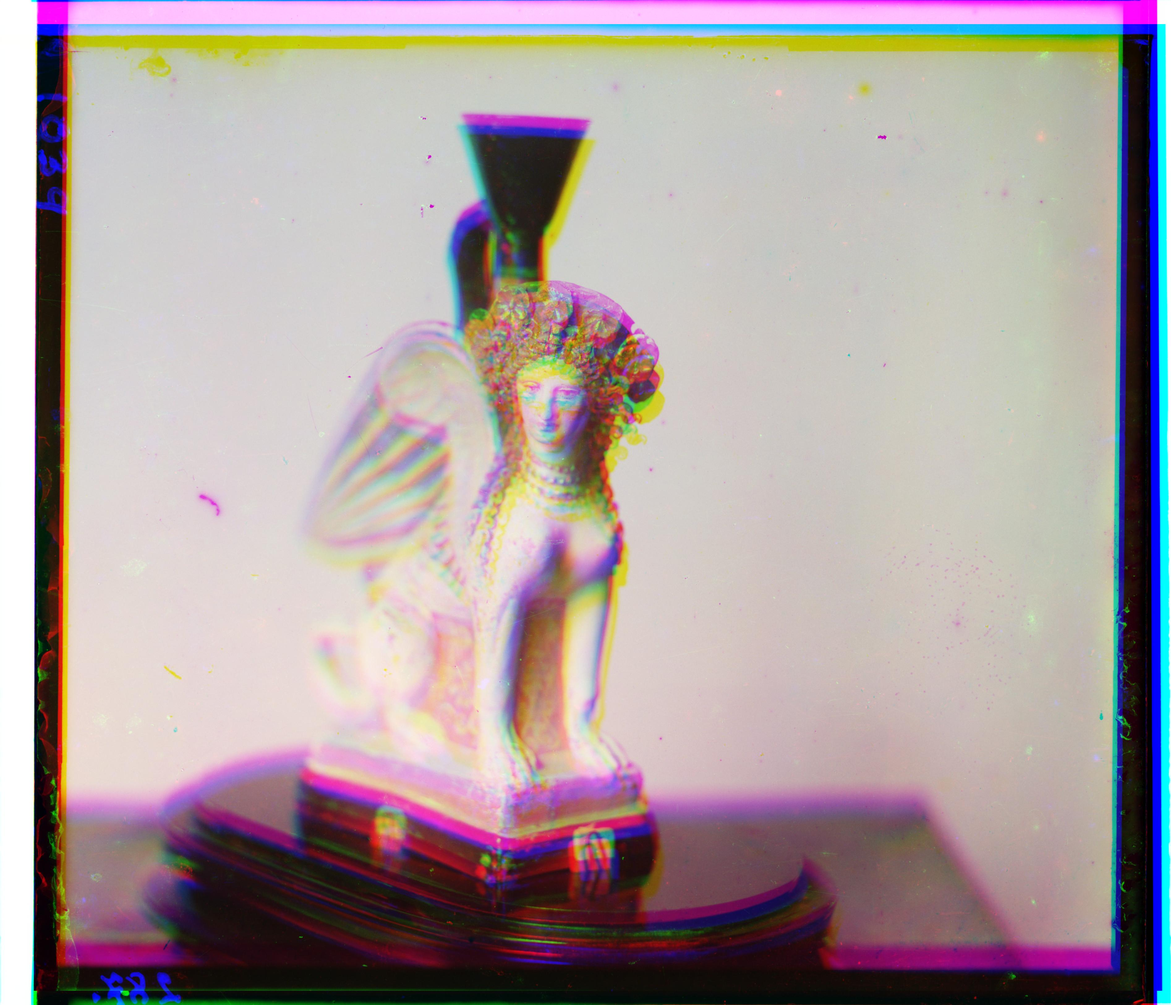
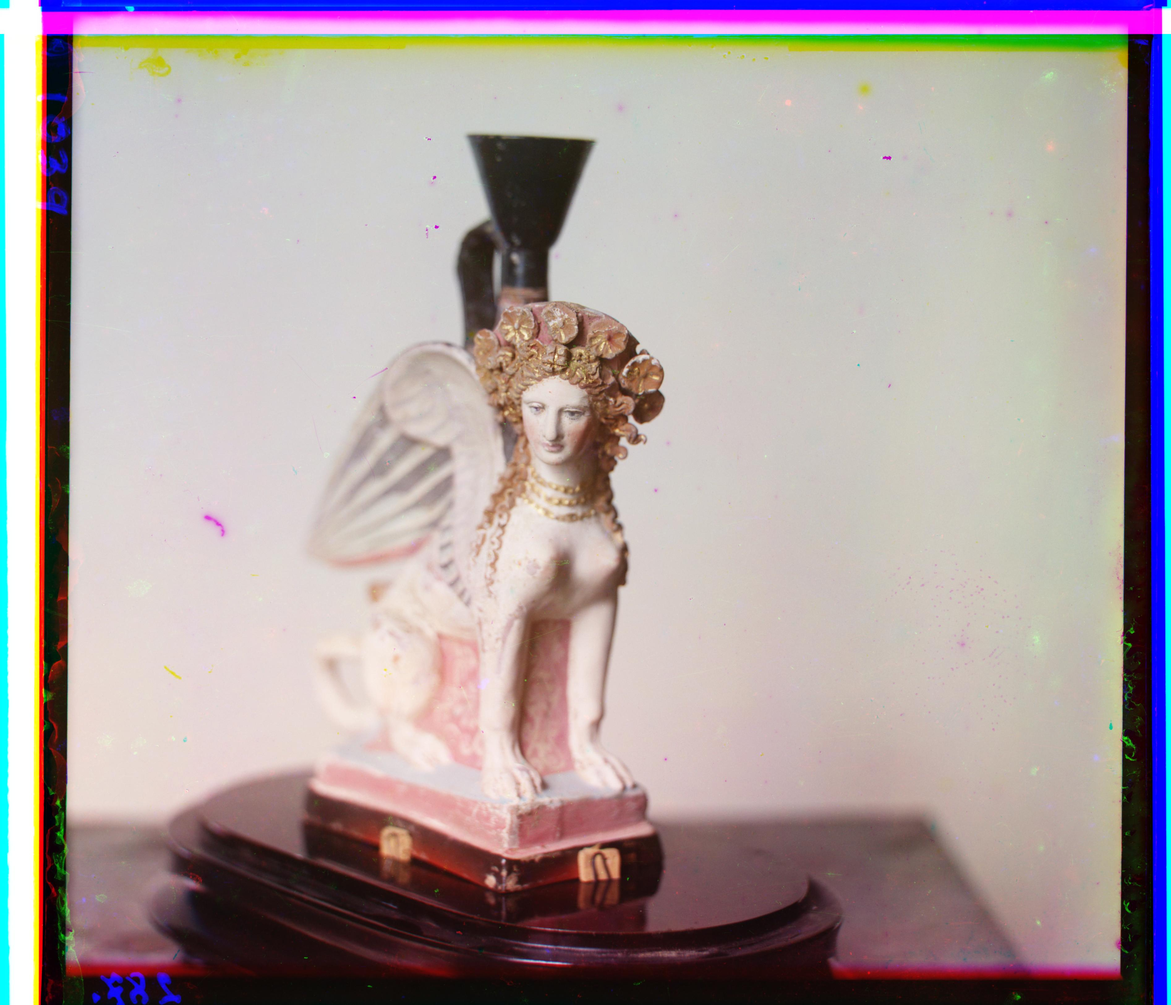
final proj 1

Changed region(s): [[0.0, 0.0, 1.0, 1.0], [0.2492, 0.6215, 0.2804, 0.6526], [0.1558, 0.4972, 0.1869, 0.5283]]

diff --git a/1/index.html b/1/index.html
@@ -25,6 +25,9 @@
               
               <p>
                 <u>my approach:<br /></u>
+
+                I ended up using NCC and pyramid alignment with edge cropping of 25%. Except <code>emir.tif</code>, which I didn't use edge detection for and the <code>.jpg</code>
+                images, where I just used the naive approach.
               
                 As the spec suggested, I split the large image into 3 and tried to align the G and R parts of the image to the B part of the image.
                 To find the "best" alignment, I first relied on the L2 norm as the metric to use.
@@ -40,12 +43,20 @@
                   My improved method relied on the pyramid alignment procedure. This involved first downsampling all the channels to have “smaller” images
                   that encoded less data (and thus were less detailed than the actual images). I'd start out with the naive method, finding the best displacement 
                   for this smaller image, which was relatively fast. Then I'd upscale the image by a factor of 2.0 at a time, keeping track of the "best displacement"
-                  seen so far, and at every iteration also trying a small window of about [-6, 6] for other good displacements that may have been missed in the previous
-                  downsampled step. I'd repeat until the image was the original size and use the best displacement found at the end.
+                  seen so far, and at every iteration also trying a small window of about [-5, 5] for other good displacements that may have been missed in the previous
+                  downsampled step. I'd repeat until the image was the original size and use the best displacement found at the end. I used 6 levels, counting it such that
+                  the smallest I ever scaled the image was 1/32 of the original size.
                 </li>
                 <li>
                   After using the pyramid method, I wondered if I could make it look better with a different metric because the images still looked
                   a little bit off to me. So I used the NCC metric, but inversely (so larger scores were better), which did seem to improve image alignments.
+                </li>
+                <li>
+                  Then, I introduced very simple edge cropping via a single defined edge cropping of 25%. I centered it so that the resultant image would be aligned only
+                  according to the inner 75% (so 25% was cropped away). The intuition for this is that the "center"/subject of the image is typically more relevant in calculating
+                  the score. Once I incorporated this, my images significantly improved. It's important to note that <code>emir.tif</code> didn't seem to improve
+                  with both more and less aggressive crops. It seems that there is a different issue that stems from what I believe to be the significant difference
+                  of the red and blue channels within his clothing and the duplicate patterns contained within it.
                 </li>
               </ol>
               
@@ -62,35 +73,40 @@
                   Figuring out how to choose the right number of levels for the pyramid align method. For example, using too many levels may lose
                   too much information in the beginning.
                 </li>
+                <li>
+                  As mentioned earlier, edge cropping didn't make every image better. In the case of <code>emir.tif</code>, it seemed to make things worse.
+                  It seems to be affected by a different issue that stems from what I believe to be the significant difference
+                  of the red and blue channels within his clothing and the duplicate patterns contained within it.
+                </li>
               </ol>              
         </div>
 
       <h2>section two: image results:</h2>
       <div class="results-grid">
         <figure>
-          <img src="../images/final_monastery.jpg" alt="Monastery result" />
+          <img src="../images/new-monastery.jpg" alt="Monastery result" />
           <figcaption>
             monastery.jpg <br />
-            Green Shift: (-3, 1) <br />
-            Red Shift: (3, 2)
+            Green Shift: (2, -3) <br />
+            Red Shift: (2, 3)
           </figcaption>
         </figure>
 
         <figure>
-          <img src="../images/final_cathedral.jpg" alt="Cathedral result" />
+          <img src="../images/new-cathedral.jpg" alt="Cathedral result" />
           <figcaption>
             cathedral.jpg <br />
-            Green Shift: (1, -1) <br />
-            Red Shift: (7, -1)
+            Green Shift: (2, 5) <br />
+            Red Shift: (3, 12)
           </figcaption>
         </figure>
 
         <figure>
-          <img src="../images/final_tobolsk.jpg" alt="tobolsk result" />
+          <img src="../images/new-tobolsk.jpg" alt="tobolsk result" />
           <figcaption>
             tobolsk.jpg <br />
-            Green Shift: (3, 2) <br />
-            Red Shift: (6, 3)
+            Green Shift: (3, 3) <br />
+            Red Shift: (3, 6)
           </figcaption>
         </figure>
 
@@ -104,86 +120,86 @@
         </figure>
 
         <figure>
-          <img src="../images/harvesters.jpg" alt="harvesters result" />
+          <img src="../images/new-harvesters.jpg" alt="harvesters result" />
           <figcaption>
             harvesters.tif as .jpg <br />
-            Green Shift: (118, -3) <br />
-            Red Shift: (120, 7)
+            Green Shift: (17, 59) <br />
+            Red Shift: (14, 123)
           </figcaption>
         </figure>
 
         <figure>
-          <img src="../images/icon.jpg" alt="icon result" />
+          <img src="../images/new-icon.jpg" alt="icon result" />
           <figcaption>
             icon.tif as .jpg <br />
-            Green Shift: (42, 16) <br />
-            Red Shift: (89, 22)
+            Green Shift: (17, 40) <br />
+            Red Shift: (23, 89)
           </figcaption>
         </figure>
 
         <figure>
-          <img src="../images/italil.jpg" alt="italil result" />
+          <img src="../images/new-italil.jpg" alt="italil result" />
           <figcaption>
             italil.tif as .jpg <br />
-            Green Shift: (38, 18) <br />
-            Red Shift: (78, 34)
+            Green Shift: (21, 38) <br />
+            Red Shift: (35, 77)
           </figcaption>
         </figure>
 
         <figure>
-          <img src="../images/lastochikino.jpg" alt="lastochikino result" />
+          <img src="../images/new-lastochikino.jpg" alt="lastochikino result" />
           <figcaption>
             lastochikino.tif as .jpg <br />
-            Green Shift: (-4, -2) <br />
-            Red Shift: (144, -3)
+            Green Shift: (-2, -3) <br />
+            Red Shift: (-9, 75)
           </figcaption>
         </figure>
 
         <figure>
-          <img src="../images/lugano.jpg" alt="lugano result" />
+          <img src="../images/new-lugano.jpg" alt="lugano result" />
           <figcaption>
             lugano.tif as .jpg <br />
-            Green Shift: (3, -10) <br />
-            Red Shift: (81, -21)
+            Green Shift: (-16, 41) <br />
+            Red Shift: (-29, 93)
           </figcaption>
         </figure>
 
         <figure>
-          <img src="../images/melons.jpg" alt="melons result" />
+          <img src="../images/new-melons.jpg" alt="melons result" />
           <figcaption>
             melons.tif as .jpg <br />
-            Green Shift: (83, 4) <br />
-            Red Shift: (176, 7)
+            Green Shift: (10, 81) <br />
+            Red Shift: (14, 178)
           </figcaption>
         </figure>
 
         <figure>
-          <img src="../images/self_portrait.jpg" alt="self_portrait result" />
+          <img src="../images/new-self_portrait.jpg" alt="self_portrait result" />
           <figcaption>
             self_portrait.tif as .jpg <br />
-            Green Shift: (50, -2) <br />
-            Red Shift: (130, -5)
+            Green Shift: (29, 78) <br />
+            Red Shift: (37, 176)
           </figcaption>
         </figure>
 
         <figure>
-          <img src="../images/siren.jpg" alt="siren result" />
+          <img src="../images/new-siren.jpg" alt="siren result" />
           <figcaption>
             siren.tif as .jpg <br />
-            Green Shift: (48, -7) <br />
-            Red Shift: (96, -21)
+            Green Shift: (-6, 49) <br />
+            Red Shift: (-24, 96)
           </figcaption>
         </figure>
 
         <figure>
           <img
-            src="../images/three_generations.jpg"
+            src="../images/new-three_generations.jpg"
             alt="three_generations result"
           />
           <figcaption>
             three_generations.tif as .jpg <br />
-            Green Shift: (52, 5) <br />
-            Red Shift: (108, 7)
+            Green Shift: (14, 52) <br />
+            Red Shift: (12, 111)
           </figcaption>
         </figure>
       </div>

diff --git a/style.css b/style.css
@@ -1,12 +1,18 @@
 html,
 body {
-  background: #000;
-  color: #fff;
-  font-family: "Times New Roman", serif;
+  /* background: #000; */
+  background: #111;
+  /* color: #fff; */
+  color: #c0c0c0;
+  /* font-family: "Times New Roman", serif; */
+  font-family: "Georgia", "Times New Roman", serif;
+  font-family: "Inter", "Helvetica Neue", Helvetica, Arial, sans-serif;
   margin: 0;
   padding: 1rem 2rem;
-  line-height: 1.2;
+  line-height: 1.3;
   text-align: center;
+  font-weight: 400;
+  font-size: 1.05rem;
 }
 
 .project-title {
@@ -58,7 +64,7 @@ body {
 }
 
 .proj-one-container p {
-  margin-bottom: 1rem;
+  margin-bottom: 1.2rem;
   font-size: 1.1rem;
 }
 
@@ -69,6 +75,9 @@ body {
 }
 
 .proj-one-container li {
+  max-width: 80ch;
+  margin-left: auto;
+  margin-right: auto;
   margin-bottom: 1rem;
   font-size: 1rem;
   line-height: 1.2;
@@ -124,7 +133,7 @@ body {
 
 .results-grid {
   display: grid;
-  grid-template-columns: repeat(auto-fit, minmax(200px, 1fr));
+  grid-template-columns: repeat(auto-fit, minmax(250px, 1fr));
   gap: 1rem;
   padding: 1rem 0;
 }
